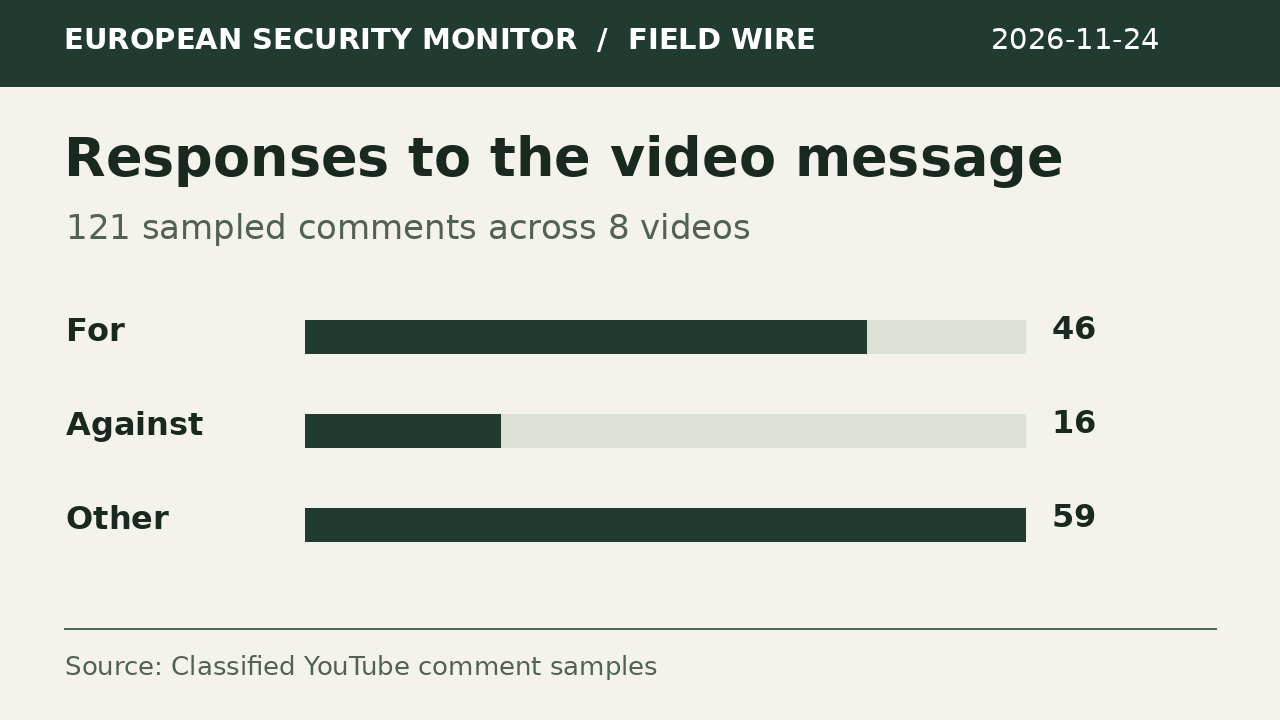
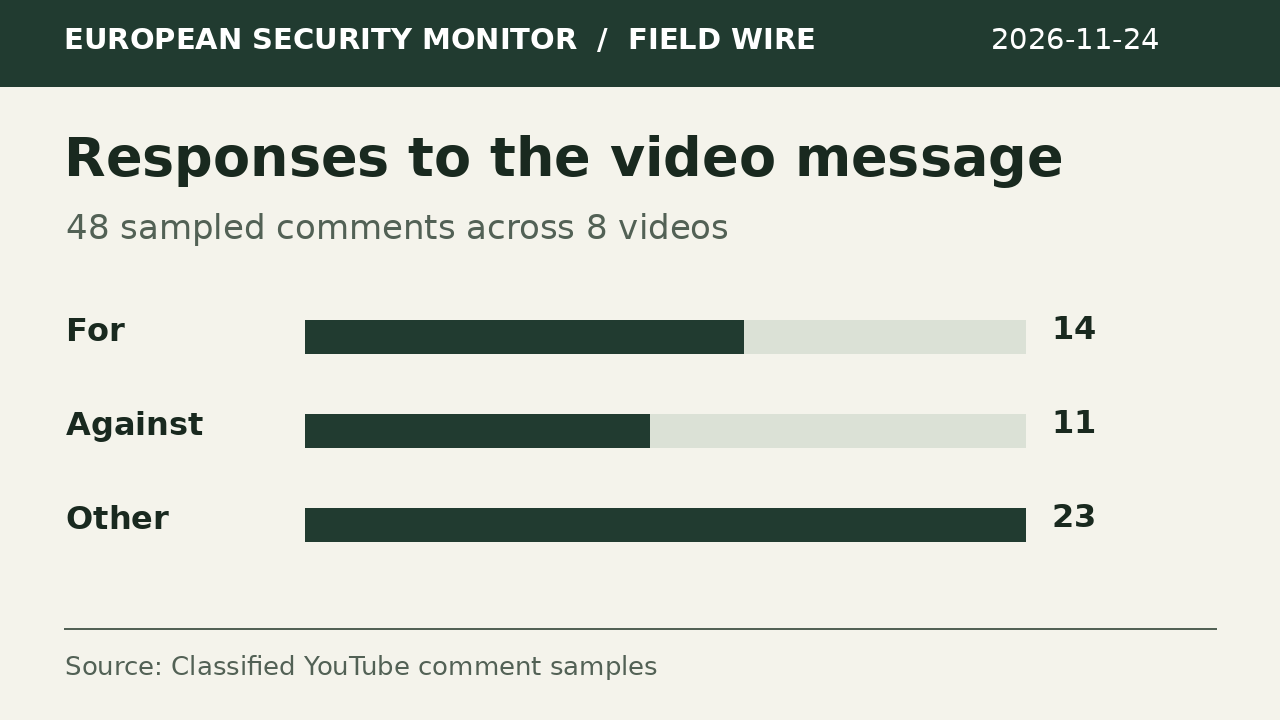
Publish Field Wire edition

diff --git a/editions/2026-11-24/index.html b/editions/2026-11-24/index.html
@@ -1,16 +1,16 @@
 <!doctype html><html lang="en"><head><meta charset="utf-8"><meta name="viewport" content="width=device-width,initial-scale=1">
-<title>Field Wire · 2026-11-24 | European Security Monitor</title><meta name="description" content="2026-11-24 · 121 sampled comments across 8 videos. For 46, Against 16, Other 59.">
+<title>Field Wire · 2026-11-24 | European Security Monitor</title><meta name="description" content="2026-11-24 · 48 sampled comments across 8 videos. For 14, Against 11, Other 23.">
 <meta name="author" content="Kedma Hamelberg"><meta name="robots" content="max-image-preview:large">
-<link rel="canonical" href="https://monitor.hamelberg-ai.com/field-wire/2026-11-24/"><meta property="og:url" content="https://monitor.hamelberg-ai.com/field-wire/2026-11-24/"><meta property="og:title" content="Field Wire · 2026-11-24 | European Security Monitor"><meta property="og:description" content="2026-11-24 · 121 sampled comments across 8 videos. For 46, Against 16, Other 59."><meta property="og:image" content="https://monitor.hamelberg-ai.com/field-wire/2026-11-24/preview.png"><meta property="og:image:width" content="1280"><meta property="og:image:height" content="720"><meta property="og:image:alt" content="Responses to the video message. 121 sampled comments across 8 videos. For 46, Against 16, Other 59."><meta name="twitter:card" content="summary_large_image"><meta name="twitter:image" content="https://monitor.hamelberg-ai.com/field-wire/2026-11-24/preview.png">
+<link rel="canonical" href="https://monitor.hamelberg-ai.com/field-wire/2026-11-24/"><meta property="og:url" content="https://monitor.hamelberg-ai.com/field-wire/2026-11-24/"><meta property="og:title" content="Field Wire · 2026-11-24 | European Security Monitor"><meta property="og:description" content="2026-11-24 · 48 sampled comments across 8 videos. For 14, Against 11, Other 23."><meta property="og:image" content="https://monitor.hamelberg-ai.com/field-wire/2026-11-24/preview.png"><meta property="og:image:width" content="1280"><meta property="og:image:height" content="720"><meta property="og:image:alt" content="Responses to the video message. 48 sampled comments across 8 videos. For 14, Against 11, Other 23."><meta name="twitter:card" content="summary_large_image"><meta name="twitter:image" content="https://monitor.hamelberg-ai.com/field-wire/2026-11-24/preview.png">
 <link rel="stylesheet" href="/field-wire/wire.css?v=edition1"><script defer src="/field-wire/wire.js?v=ledger1"></script><script defer src="/field-wire/engagement.js?v=edition1"></script><script defer src="/analytics.js"></script></head>
 <body data-edition="/field-wire/2026-11-24/"><a class="skip" href="#main">Skip to dispatches</a><header><a class="brand" href="/">⌖ ESM</a><nav aria-label="Main navigation"><a href="/#monitor">Situation room</a><a aria-current="page" href="/field-wire/">Field Wire</a><a href="/#government">Government narratives</a><a href="/#evidence">Source archive</a><a href="/#methodology">Methods</a></nav></header>
 <main id="main"><div class="mast"><div><small>European Security Monitor</small><h1>Field Wire · 2026-11-24</h1></div><div class="edition">Latest source date<br><time>2026-11-23</time></div></div>
 <nav class="jump" aria-label="Bulletin desks"><a href="#dispatches">Dispatches <b>16</b></a><a href="#audience">Audience reports <b>8</b></a><a href="/field-wire/2026-11-24/">Edition · 2026-11-24</a></nav>
 <div class="layout"><section id="dispatches"><div class="section-head"><h2>Dispatch log</h2><div id="filters" hidden><button data-filter="All" aria-pressed="true">All</button><button data-filter="Gov" aria-pressed="false">Government</button><button data-filter="Video" aria-pressed="false">YouTube</button></div></div>
-<table class="dispatches"><thead><tr><th scope="col">Filed</th><th scope="col">Dispatch</th><th scope="col">Visual</th></tr></thead><tbody><tr id="gov-ecb36cbeea8a25dc8a37" data-wire="gov-ecb36cbeea8a25dc8a37" data-desk="Gov"><td class="stamp"><time datetime="2026-11-23">23 Nov</time><b>Gov</b></td><td class="copy"><h3>Kazakhstan considers food-supply and price measures, including greenhouse electricity tariffs and controls on meat exports.</h3><small>Kazakhstan · <a class="source" href="/?record=ecb36cbeea8a25dc8a37#government">Source ↗</a></small></td><td class="visual"><figure class="activity"><b>KZ</b><div class="pulse"><i style="height:0.0%"><span>0</span></i><i style="height:75.0%"><span>3</span></i><i style="height:100.0%"><span>4</span></i><i style="height:100.0%"><span>4</span></i><i style="height:0.0%"><span>0</span></i><i style="height:0.0%"><span>0</span></i><i style="height:50.0%"><span>2</span></i></div><figcaption>Related releases · 17 Nov–23 Nov</figcaption></figure></td></tr><tr id="gov-2c7186472a32c219f7be" data-wire="gov-2c7186472a32c219f7be" data-desk="Gov"><td class="stamp"><time datetime="2026-11-23">23 Nov</time><b>Gov</b></td><td class="copy"><h3>Dutch and Lithuanian leaders will discuss European security and cooperation within the EU and NATO.</h3><small>Netherlands · <a class="source" href="/?record=2c7186472a32c219f7be#government">Source ↗</a></small></td><td class="visual"><figure class="activity"><b>NL</b><div class="pulse"><i style="height:75.0%"><span>3</span></i><i style="height:25.0%"><span>1</span></i><i style="height:100.0%"><span>4</span></i><i style="height:100.0%"><span>4</span></i><i style="height:25.0%"><span>1</span></i><i style="height:0.0%"><span>0</span></i><i style="height:75.0%"><span>3</span></i></div><figcaption>Related releases · 17 Nov–23 Nov</figcaption></figure></td></tr><tr id="gov-2fddcd75392d70899fc8" data-wire="gov-2fddcd75392d70899fc8" data-desk="Gov"><td class="stamp"><time datetime="2026-11-23">23 Nov</time><b>Gov</b></td><td class="copy"><h3>Greece consults on a national plan with 84 measures to protect journalists and press freedom.</h3><small>Greece · <a class="source" href="/?record=2fddcd75392d70899fc8#government">Source ↗</a></small></td><td class="visual"><figure class="activity"><b>GR</b><div class="pulse"><i style="height:0.0%"><span>0</span></i><i style="height:100.0%"><span>1</span></i><i style="height:0.0%"><span>0</span></i><i style="height:0.0%"><span>0</span></i><i style="height:0.0%"><span>0</span></i><i style="height:0.0%"><span>0</span></i><i style="height:100.0%"><span>1</span></i></div><figcaption>Related releases · 17 Nov–23 Nov</figcaption></figure></td></tr><tr id="gov-d262c7114f025b2acf7e" data-wire="gov-d262c7114f025b2acf7e" data-desk="Gov"><td class="stamp"><time datetime="2026-11-23">23 Nov</time><b>Gov</b></td><td class="copy"><h3>Portugal presents ocean-acidification action and maritime cooperation as part of its climate response.</h3><small>Portugal · <a class="source" href="/?record=d262c7114f025b2acf7e#government">Source ↗</a></small></td><td class="visual"><figure class="activity"><b>PT</b><div class="pulse"><i style="height:50.0%"><span>1</span></i><i style="height:50.0%"><span>1</span></i><i style="height:0.0%"><span>0</span></i><i style="height:0.0%"><span>0</span></i><i style="height:0.0%"><span>0</span></i><i style="height:50.0%"><span>1</span></i><i style="height:100.0%"><span>2</span></i></div><figcaption>Related releases · 17 Nov–23 Nov</figcaption></figure></td></tr><tr id="gov-01f0e06e67bcc15440b3" data-wire="gov-01f0e06e67bcc15440b3" data-desk="Gov"><td class="stamp"><time datetime="2026-11-23">23 Nov</time><b>Gov</b></td><td class="copy"><h3>Lukashenko urges Belarus and Russia to protect their common market and avoid duplicative production.</h3><small>Belarus · <a class="source" href="/?record=01f0e06e67bcc15440b3#government">Source ↗</a></small></td><td class="visual"><figure class="activity"><b>BY</b><div class="pulse"><i style="height:100.0%"><span>1</span></i><i style="height:0.0%"><span>0</span></i><i style="height:100.0%"><span>1</span></i><i style="height:100.0%"><span>1</span></i><i style="height:0.0%"><span>0</span></i><i style="height:0.0%"><span>0</span></i><i style="height:100.0%"><span>1</span></i></div><figcaption>Related releases · 17 Nov–23 Nov</figcaption></figure></td></tr><tr id="gov-4dab75a750df7dd45c1d" data-wire="gov-4dab75a750df7dd45c1d" data-desk="Gov"><td class="stamp"><time datetime="2026-11-23">23 Nov</time><b>Gov</b></td><td class="copy"><h3>Portugal criticizes COP31’s climate commitments while highlighting Just Transition progress and reaffirming its clean-energy transition.</h3><small>Portugal · <a class="source" href="/?record=4dab75a750df7dd45c1d#government">Source ↗</a></small></td><td class="visual"><figure class="activity"><b>PT</b><div class="pulse"><i style="height:50.0%"><span>1</span></i><i style="height:50.0%"><span>1</span></i><i style="height:0.0%"><span>0</span></i><i style="height:0.0%"><span>0</span></i><i style="height:0.0%"><span>0</span></i><i style="height:50.0%"><span>1</span></i><i style="height:100.0%"><span>2</span></i></div><figcaption>Related releases · 17 Nov–23 Nov</figcaption></figure></td></tr><tr id="gov-b96a3f8ad04484908782" data-wire="gov-b96a3f8ad04484908782" data-desk="Gov"><td class="stamp"><time datetime="2026-11-23">23 Nov</time><b>Gov</b></td><td class="copy"><h3>The Netherlands plans provincial wolf management and wolf-free zones to reduce attacks on people and livestock.</h3><small>Netherlands · <a class="source" href="/?record=b96a3f8ad04484908782#government">Source ↗</a></small></td><td class="visual"><figure class="activity"><b>NL</b><div class="pulse"><i style="height:75.0%"><span>3</span></i><i style="height:25.0%"><span>1</span></i><i style="height:100.0%"><span>4</span></i><i style="height:100.0%"><span>4</span></i><i style="height:25.0%"><span>1</span></i><i style="height:0.0%"><span>0</span></i><i style="height:75.0%"><span>3</span></i></div><figcaption>Related releases · 17 Nov–23 Nov</figcaption></figure></td></tr><tr id="gov-1a5daffe93924710991e" data-wire="gov-1a5daffe93924710991e" data-desk="Gov"><td class="stamp"><time datetime="2026-11-23">23 Nov</time><b>Gov</b></td><td class="copy"><h3>The Netherlands urges shifting electricity use outside evening peaks to ease grid congestion and enable more connections.</h3><small>Netherlands · <a class="source" href="/?record=1a5daffe93924710991e#government">Source ↗</a></small></td><td class="visual"><figure class="activity"><b>NL</b><div class="pulse"><i style="height:75.0%"><span>3</span></i><i style="height:25.0%"><span>1</span></i><i style="height:100.0%"><span>4</span></i><i style="height:100.0%"><span>4</span></i><i style="height:25.0%"><span>1</span></i><i style="height:0.0%"><span>0</span></i><i style="height:75.0%"><span>3</span></i></div><figcaption>Related releases · 17 Nov–23 Nov</figcaption></figure></td></tr><tr id="video-ehN3H5vLiCI" data-wire="video-ehN3H5vLiCI" data-desk="Video"><td class="stamp"><time datetime="2026-11-21">21 Nov</time><b>Video</b></td><td class="copy"><h3>Iceland identified as the world&#x27;s most peaceful country based on the transcript statement.</h3><small>HardCore · <a class="source" href="/?record=ehN3H5vLiCI&amp;week=2026-W47#evidence">Source ↗</a></small></td><td class="visual"><figure class="cover"><img alt="" width="320" height="180" src="https://i.ytimg.com/vi/ehN3H5vLiCI/mqdefault.jpg"></figure></td></tr><tr id="video-5SP3QCCecAQ" data-wire="video-5SP3QCCecAQ" data-desk="Video"><td class="stamp"><time datetime="2026-11-21">21 Nov</time><b>Video</b></td><td class="copy"><h3>Historical border that cut Croatia in two and persisted into modern times.</h3><small>Map Gaps Daily · <a class="source" href="/?record=5SP3QCCecAQ&amp;week=2026-W47#evidence">Source ↗</a></small></td><td class="visual"><figure class="cover"><img alt="" width="320" height="180" src="https://i.ytimg.com/vi/5SP3QCCecAQ/mqdefault.jpg"></figure></td></tr><tr id="video-Fc_3fLvpHeM" data-wire="video-Fc_3fLvpHeM" data-desk="Video"><td class="stamp"><time datetime="2026-11-21">21 Nov</time><b>Video</b></td><td class="copy"><h3>Crassus invaded Parthia with seven legions amid a desert campaign; no water and desert conditions contributed to Roman losses.</h3><small>Bob Explains  · <a class="source" href="/?record=Fc_3fLvpHeM&amp;week=2026-W47#evidence">Source ↗</a></small></td><td class="visual"><figure class="cover"><img alt="" width="320" height="180" src="https://i.ytimg.com/vi/Fc_3fLvpHeM/mqdefault.jpg"></figure></td></tr><tr id="video-55rbep7vYbc" data-wire="video-55rbep7vYbc" data-desk="Video"><td class="stamp"><time datetime="2026-11-21">21 Nov</time><b>Video</b></td><td class="copy"><h3>Opposition leader Isak Ember says Azerbaijan prevented his travel abroad, highlighting limits on exit from the country.</h3><small>BBC News Azərbaycanca · <a class="source" href="/?record=55rbep7vYbc&amp;week=2026-W47#evidence">Source ↗</a></small></td><td class="visual"><figure class="cover"><img alt="" width="320" height="180" src="https://i.ytimg.com/vi/55rbep7vYbc/mqdefault.jpg"></figure></td></tr><tr id="video-4ALbwIEyRI4" data-wire="video-4ALbwIEyRI4" data-desk="Video"><td class="stamp"><time datetime="2026-11-21">21 Nov</time><b>Video</b></td><td class="copy"><h3>The Ottoman Empire uniquely opposed recognizing Poland&#x27;s partition, contrasting with France, Britain, and Russia/Prussia.</h3><small>Ancient History Lol · <a class="source" href="/?record=4ALbwIEyRI4&amp;week=2026-W47#evidence">Source ↗</a></small></td><td class="visual"><figure class="cover"><img alt="" width="320" height="180" src="https://i.ytimg.com/vi/4ALbwIEyRI4/mqdefault.jpg"></figure></td></tr><tr id="video-A0F81rag8LU" data-wire="video-A0F81rag8LU" data-desk="Video"><td class="stamp"><time datetime="2026-11-21">21 Nov</time><b>Video</b></td><td class="copy"><h3>South Carinthia stayed with Austria in 1920; linguistic and everyday-life considerations influenced the vote.</h3><small>Terraloca · <a class="source" href="/?record=A0F81rag8LU&amp;week=2026-W47#evidence">Source ↗</a></small></td><td class="visual"><figure class="cover"><img alt="" width="320" height="180" src="https://i.ytimg.com/vi/A0F81rag8LU/mqdefault.jpg"></figure></td></tr><tr id="video-8XzyKXgVIFY" data-wire="video-8XzyKXgVIFY" data-desk="Video"><td class="stamp"><time datetime="2026-11-21">21 Nov</time><b>Video</b></td><td class="copy"><h3>Berlin Wall symbolized division; reunification marked a historic milestone.</h3><small>History With Jose · <a class="source" href="/?record=8XzyKXgVIFY&amp;week=2026-W47#evidence">Source ↗</a></small></td><td class="visual"><figure class="cover"><img alt="" width="320" height="180" src="https://i.ytimg.com/vi/8XzyKXgVIFY/mqdefault.jpg"></figure></td></tr><tr id="video-gKrisb0edcg" data-wire="video-gKrisb0edcg" data-desk="Video"><td class="stamp"><time datetime="2026-11-21">21 Nov</time><b>Video</b></td><td class="copy"><h3>One proposition: Mussolini invaded Greece to prove he could win a war.</h3><small>Recon Rundown · <a class="source" href="/?record=gKrisb0edcg&amp;week=2026-W47#evidence">Source ↗</a></small></td><td class="visual"><figure class="cover"><img alt="" width="320" height="180" src="https://i.ytimg.com/vi/gKrisb0edcg/mqdefault.jpg"></figure></td></tr></tbody></table></section>
+<table class="dispatches"><thead><tr><th scope="col">Filed</th><th scope="col">Dispatch</th><th scope="col">Visual</th></tr></thead><tbody><tr id="gov-ecb36cbeea8a25dc8a37" data-wire="gov-ecb36cbeea8a25dc8a37" data-desk="Gov"><td class="stamp"><time datetime="2026-11-23">23 Nov</time><b>Gov</b></td><td class="copy"><h3>Kazakhstan considers food-supply and price measures, including greenhouse electricity tariffs and controls on meat exports.</h3><small>Kazakhstan · <a class="source" href="/?record=ecb36cbeea8a25dc8a37#government">Source ↗</a></small></td><td class="visual"><figure class="activity"><b>KZ</b><div class="pulse"><i style="height:0.0%"><span>0</span></i><i style="height:75.0%"><span>3</span></i><i style="height:100.0%"><span>4</span></i><i style="height:100.0%"><span>4</span></i><i style="height:0.0%"><span>0</span></i><i style="height:0.0%"><span>0</span></i><i style="height:50.0%"><span>2</span></i></div><figcaption>Related releases · 17 Nov–23 Nov</figcaption></figure></td></tr><tr id="gov-2c7186472a32c219f7be" data-wire="gov-2c7186472a32c219f7be" data-desk="Gov"><td class="stamp"><time datetime="2026-11-23">23 Nov</time><b>Gov</b></td><td class="copy"><h3>Dutch and Lithuanian leaders will discuss European security and cooperation within the EU and NATO.</h3><small>Netherlands · <a class="source" href="/?record=2c7186472a32c219f7be#government">Source ↗</a></small></td><td class="visual"><figure class="activity"><b>NL</b><div class="pulse"><i style="height:75.0%"><span>3</span></i><i style="height:25.0%"><span>1</span></i><i style="height:100.0%"><span>4</span></i><i style="height:100.0%"><span>4</span></i><i style="height:25.0%"><span>1</span></i><i style="height:0.0%"><span>0</span></i><i style="height:75.0%"><span>3</span></i></div><figcaption>Related releases · 17 Nov–23 Nov</figcaption></figure></td></tr><tr id="gov-2fddcd75392d70899fc8" data-wire="gov-2fddcd75392d70899fc8" data-desk="Gov"><td class="stamp"><time datetime="2026-11-23">23 Nov</time><b>Gov</b></td><td class="copy"><h3>Greece consults on a national plan with 84 measures to protect journalists and press freedom.</h3><small>Greece · <a class="source" href="/?record=2fddcd75392d70899fc8#government">Source ↗</a></small></td><td class="visual"><figure class="activity"><b>GR</b><div class="pulse"><i style="height:0.0%"><span>0</span></i><i style="height:100.0%"><span>1</span></i><i style="height:0.0%"><span>0</span></i><i style="height:0.0%"><span>0</span></i><i style="height:0.0%"><span>0</span></i><i style="height:0.0%"><span>0</span></i><i style="height:100.0%"><span>1</span></i></div><figcaption>Related releases · 17 Nov–23 Nov</figcaption></figure></td></tr><tr id="gov-d262c7114f025b2acf7e" data-wire="gov-d262c7114f025b2acf7e" data-desk="Gov"><td class="stamp"><time datetime="2026-11-23">23 Nov</time><b>Gov</b></td><td class="copy"><h3>Portugal presents ocean-acidification action and maritime cooperation as part of its climate response.</h3><small>Portugal · <a class="source" href="/?record=d262c7114f025b2acf7e#government">Source ↗</a></small></td><td class="visual"><figure class="activity"><b>PT</b><div class="pulse"><i style="height:50.0%"><span>1</span></i><i style="height:50.0%"><span>1</span></i><i style="height:0.0%"><span>0</span></i><i style="height:0.0%"><span>0</span></i><i style="height:0.0%"><span>0</span></i><i style="height:50.0%"><span>1</span></i><i style="height:100.0%"><span>2</span></i></div><figcaption>Related releases · 17 Nov–23 Nov</figcaption></figure></td></tr><tr id="gov-01f0e06e67bcc15440b3" data-wire="gov-01f0e06e67bcc15440b3" data-desk="Gov"><td class="stamp"><time datetime="2026-11-23">23 Nov</time><b>Gov</b></td><td class="copy"><h3>Lukashenko urges Belarus and Russia to protect their common market and avoid duplicative production.</h3><small>Belarus · <a class="source" href="/?record=01f0e06e67bcc15440b3#government">Source ↗</a></small></td><td class="visual"><figure class="activity"><b>BY</b><div class="pulse"><i style="height:100.0%"><span>1</span></i><i style="height:0.0%"><span>0</span></i><i style="height:100.0%"><span>1</span></i><i style="height:100.0%"><span>1</span></i><i style="height:0.0%"><span>0</span></i><i style="height:0.0%"><span>0</span></i><i style="height:100.0%"><span>1</span></i></div><figcaption>Related releases · 17 Nov–23 Nov</figcaption></figure></td></tr><tr id="gov-4dab75a750df7dd45c1d" data-wire="gov-4dab75a750df7dd45c1d" data-desk="Gov"><td class="stamp"><time datetime="2026-11-23">23 Nov</time><b>Gov</b></td><td class="copy"><h3>Portugal criticizes COP31’s climate commitments while highlighting Just Transition progress and reaffirming its clean-energy transition.</h3><small>Portugal · <a class="source" href="/?record=4dab75a750df7dd45c1d#government">Source ↗</a></small></td><td class="visual"><figure class="activity"><b>PT</b><div class="pulse"><i style="height:50.0%"><span>1</span></i><i style="height:50.0%"><span>1</span></i><i style="height:0.0%"><span>0</span></i><i style="height:0.0%"><span>0</span></i><i style="height:0.0%"><span>0</span></i><i style="height:50.0%"><span>1</span></i><i style="height:100.0%"><span>2</span></i></div><figcaption>Related releases · 17 Nov–23 Nov</figcaption></figure></td></tr><tr id="gov-b96a3f8ad04484908782" data-wire="gov-b96a3f8ad04484908782" data-desk="Gov"><td class="stamp"><time datetime="2026-11-23">23 Nov</time><b>Gov</b></td><td class="copy"><h3>The Netherlands plans provincial wolf management and wolf-free zones to reduce attacks on people and livestock.</h3><small>Netherlands · <a class="source" href="/?record=b96a3f8ad04484908782#government">Source ↗</a></small></td><td class="visual"><figure class="activity"><b>NL</b><div class="pulse"><i style="height:75.0%"><span>3</span></i><i style="height:25.0%"><span>1</span></i><i style="height:100.0%"><span>4</span></i><i style="height:100.0%"><span>4</span></i><i style="height:25.0%"><span>1</span></i><i style="height:0.0%"><span>0</span></i><i style="height:75.0%"><span>3</span></i></div><figcaption>Related releases · 17 Nov–23 Nov</figcaption></figure></td></tr><tr id="gov-1a5daffe93924710991e" data-wire="gov-1a5daffe93924710991e" data-desk="Gov"><td class="stamp"><time datetime="2026-11-23">23 Nov</time><b>Gov</b></td><td class="copy"><h3>The Netherlands urges shifting electricity use outside evening peaks to ease grid congestion and enable more connections.</h3><small>Netherlands · <a class="source" href="/?record=1a5daffe93924710991e#government">Source ↗</a></small></td><td class="visual"><figure class="activity"><b>NL</b><div class="pulse"><i style="height:75.0%"><span>3</span></i><i style="height:25.0%"><span>1</span></i><i style="height:100.0%"><span>4</span></i><i style="height:100.0%"><span>4</span></i><i style="height:25.0%"><span>1</span></i><i style="height:0.0%"><span>0</span></i><i style="height:75.0%"><span>3</span></i></div><figcaption>Related releases · 17 Nov–23 Nov</figcaption></figure></td></tr><tr id="video-ehN3H5vLiCI" data-wire="video-ehN3H5vLiCI" data-desk="Video"><td class="stamp"><time datetime="2026-11-21">21 Nov</time><b>Video</b></td><td class="copy"><h3>Iceland identified as the world&#x27;s most peaceful country based on the transcript statement.</h3><small>HardCore · <a class="source" href="/?record=ehN3H5vLiCI&amp;week=2026-W47#evidence">Source ↗</a></small></td><td class="visual"><figure class="cover"><img alt="" width="320" height="180" src="https://i.ytimg.com/vi/ehN3H5vLiCI/mqdefault.jpg"></figure></td></tr><tr id="video-5SP3QCCecAQ" data-wire="video-5SP3QCCecAQ" data-desk="Video"><td class="stamp"><time datetime="2026-11-21">21 Nov</time><b>Video</b></td><td class="copy"><h3>Historical border that cut Croatia in two and persisted into modern times.</h3><small>Map Gaps Daily · <a class="source" href="/?record=5SP3QCCecAQ&amp;week=2026-W47#evidence">Source ↗</a></small></td><td class="visual"><figure class="cover"><img alt="" width="320" height="180" src="https://i.ytimg.com/vi/5SP3QCCecAQ/mqdefault.jpg"></figure></td></tr><tr id="video-oYZvGndbGpk" data-wire="video-oYZvGndbGpk" data-desk="Video"><td class="stamp"><time datetime="2026-11-21">21 Nov</time><b>Video</b></td><td class="copy"><h3>Video argues Stalin attempted to annex Finland, later suggesting it stopped for strategic/com defensive reasons.</h3><small>Map Motives · <a class="source" href="/?record=oYZvGndbGpk&amp;week=2026-W47#evidence">Source ↗</a></small></td><td class="visual"><figure class="cover"><img alt="" width="320" height="180" src="https://i.ytimg.com/vi/oYZvGndbGpk/mqdefault.jpg"></figure></td></tr><tr id="video-Hzg-J9OSqJY" data-wire="video-Hzg-J9OSqJY" data-desk="Video"><td class="stamp"><time datetime="2026-11-21">21 Nov</time><b>Video</b></td><td class="copy"><h3>Saint Martin&#x27;s status as a country within the Kingdom of the Netherlands and its cross-border reality.</h3><small>GeoPlot Twist · <a class="source" href="/?record=Hzg-J9OSqJY&amp;week=2026-W47#evidence">Source ↗</a></small></td><td class="visual"><figure class="cover"><img alt="" width="320" height="180" src="https://i.ytimg.com/vi/Hzg-J9OSqJY/mqdefault.jpg"></figure></td></tr><tr id="video-pkivCXQc1RA" data-wire="video-pkivCXQc1RA" data-desk="Video"><td class="stamp"><time datetime="2026-11-21">21 Nov</time><b>Video</b></td><td class="copy"><h3>Russia expanded its empire by taking advantage of China’s weakness in the 19th century.</h3><small>BattleMap  · <a class="source" href="/?record=pkivCXQc1RA&amp;week=2026-W47#evidence">Source ↗</a></small></td><td class="visual"><figure class="cover"><img alt="" width="320" height="180" src="https://i.ytimg.com/vi/pkivCXQc1RA/mqdefault.jpg"></figure></td></tr><tr id="video-ndAl-NtkYEQ" data-wire="video-ndAl-NtkYEQ" data-desk="Video"><td class="stamp"><time datetime="2026-11-21">21 Nov</time><b>Video</b></td><td class="copy"><h3>Baltic maritime-security concerns near Finland due to ship attack in Gulf of Finland</h3><small>Valkyrie338 · <a class="source" href="/?record=ndAl-NtkYEQ&amp;week=2026-W47#evidence">Source ↗</a></small></td><td class="visual"><figure class="cover"><img alt="" width="320" height="180" src="https://i.ytimg.com/vi/ndAl-NtkYEQ/mqdefault.jpg"></figure></td></tr><tr id="video-PRTKYFOXmW4" data-wire="video-PRTKYFOXmW4" data-desk="Video"><td class="stamp"><time datetime="2026-11-21">21 Nov</time><b>Video</b></td><td class="copy"><h3>Court poised to decide on banning federation officials after indictment.</h3><small>N1 BiH · <a class="source" href="/?record=PRTKYFOXmW4&amp;week=2026-W47#evidence">Source ↗</a></small></td><td class="visual"><figure class="cover"><img alt="" width="320" height="180" src="https://i.ytimg.com/vi/PRTKYFOXmW4/mqdefault.jpg"></figure></td></tr><tr id="video-laCLnC6h_Xg" data-wire="video-laCLnC6h_Xg" data-desk="Video"><td class="stamp"><time datetime="2026-11-21">21 Nov</time><b>Video</b></td><td class="copy"><h3>The president who lost his country was Antanas Smetona.</h3><small>Showman 🎬 · <a class="source" href="/?record=laCLnC6h_Xg&amp;week=2026-W47#evidence">Source ↗</a></small></td><td class="visual"><figure class="cover"><img alt="" width="320" height="180" src="https://i.ytimg.com/vi/laCLnC6h_Xg/mqdefault.jpg"></figure></td></tr></tbody></table></section>
 <div class="rail"><section id="audience"><div class="section-head"><h2>Audience reports</h2></div><p class="table-note">Latest classified sample for each video. For and Against count responses to its message. Other includes mixed, unclear, unrelated and no position.</p>
-<table class="reports"><thead><tr><th scope="col">Viewer response / video</th><th scope="col">Total</th><th scope="col">For</th><th scope="col">Against</th><th scope="col">Other</th></tr></thead><tbody><tr id="comments-2026-W47-ehN3H5vLiCI" data-wire="comments-2026-W47-ehN3H5vLiCI"><td class="copy"><h3>4 of 4 opposed the message.</h3><p class="video-context">Video: Iceland identified as the world&#x27;s most peaceful country based on the transcript statement.</p><a class="source" href="/?record=ehN3H5vLiCI&amp;week=2026-W47#evidence">Source ↗</a><small>HardCore · 2026-W47</small></td><td class="num">4</td><td class="num positive">0</td><td class="num negative">4</td><td class="num" title="opposes 4">0</td></tr><tr id="comments-2026-W47-4ALbwIEyRI4" data-wire="comments-2026-W47-4ALbwIEyRI4"><td class="copy"><h3>5 of 8 backed the message.</h3><p class="video-context">Video: The Ottoman Empire uniquely opposed recognizing Poland&#x27;s partition, contrasting with France, Britain, and Russia/Prussia.</p><a class="source" href="/?record=4ALbwIEyRI4&amp;week=2026-W47#evidence">Source ↗</a><small>Ancient History Lol · 2026-W47</small></td><td class="num">8</td><td class="num positive">5</td><td class="num negative">1</td><td class="num" title="opposes 1, supports 5, unrelated 2">2</td></tr><tr id="comments-2026-W47-A0F81rag8LU" data-wire="comments-2026-W47-A0F81rag8LU"><td class="copy"><h3>6 of 11 had unclear alignment.</h3><p class="video-context">Video: South Carinthia stayed with Austria in 1920; linguistic and everyday-life considerations influenced the vote.</p><a class="source" href="/?record=A0F81rag8LU&amp;week=2026-W47#evidence">Source ↗</a><small>Terraloca · 2026-W47</small></td><td class="num">11</td><td class="num positive">3</td><td class="num negative">1</td><td class="num" title="opposes 1, supports 3, unclear 6, unrelated 1">7</td></tr><tr id="comments-2026-W47-BU54bINuZE0" data-wire="comments-2026-W47-BU54bINuZE0"><td class="copy"><h3>12 of 30 had unclear alignment.</h3><p class="video-context">Video: Explains NATO Article 5&#x27;s conditional nature and references provocation framing by Poland&#x27;s leader.</p><a class="source" href="/?record=BU54bINuZE0&amp;week=2026-W47#evidence">Source ↗</a><small>Epochs in Ink · 2026-W47</small></td><td class="num">30</td><td class="num positive">4</td><td class="num negative">3</td><td class="num" title="no position 10, opposes 3, supports 4, unclear 12, unrelated 1">23</td></tr><tr id="comments-2026-W47-1y5_cS93beM" data-wire="comments-2026-W47-1y5_cS93beM"><td class="copy"><h3>5 of 9 backed the message.</h3><p class="video-context">Video: Historical narration of Portugal’s 1543 contact with Japan, including initial Portuguese presence and trade.</p><a class="source" href="/?record=1y5_cS93beM&amp;week=2026-W47#evidence">Source ↗</a><small>itsaihistory · 2026-W47</small></td><td class="num">9</td><td class="num positive">5</td><td class="num negative">1</td><td class="num" title="mixed 2, opposes 1, supports 5, unrelated 1">3</td></tr><tr id="comments-2026-W47-E4nNKuiNatE" data-wire="comments-2026-W47-E4nNKuiNatE"><td class="copy"><h3>14 of 24 backed the message.</h3><p class="video-context">Video: NATO expansion transformed the Baltic Sea into a security-focused theater, narrowing Russian naval options and integrating Gotland and Baltic states into a more interlinked defense posture.</p><a class="source" href="/?record=E4nNKuiNatE&amp;week=2026-W47#evidence">Source ↗</a><small>Map Pack · 2026-W47</small></td><td class="num">24</td><td class="num positive">14</td><td class="num negative">2</td><td class="num" title="opposes 2, supports 14, unclear 5, unrelated 3">8</td></tr><tr id="comments-2026-W47-b7fi8FDKCN8" data-wire="comments-2026-W47-b7fi8FDKCN8"><td class="copy"><h3>14 of 30 backed the message.</h3><p class="video-context">Video: This agreement is about the long term.</p><a class="source" href="/?record=b7fi8FDKCN8&amp;week=2026-W47#evidence">Source ↗</a><small>METRO TV  · 2026-W47</small></td><td class="num">30</td><td class="num positive">14</td><td class="num negative">2</td><td class="num" title="no position 2, opposes 2, supports 14, unrelated 12">14</td></tr><tr id="comments-2026-W47-70agyHQTT44" data-wire="comments-2026-W47-70agyHQTT44"><td class="copy"><h3>2 of 5 opposed the message.</h3><p class="video-context">Video: India and Bulgaria discuss a formal roadmap to deepen bilateral cooperation across trade, defence, AI, space and digital infrastructure.</p><a class="source" href="/?record=70agyHQTT44&amp;week=2026-W47#evidence">Source ↗</a><small>ET Digital · 2026-W47</small></td><td class="num">5</td><td class="num positive">1</td><td class="num negative">2</td><td class="num" title="opposes 2, supports 1, unclear 1, unrelated 1">2</td></tr></tbody></table></section>
-<figure class="edition-chart"><a href="https://monitor.hamelberg-ai.com/field-wire/2026-11-24/preview.png"><img src="https://monitor.hamelberg-ai.com/field-wire/2026-11-24/preview.png" width="1280" height="720" loading="lazy" alt="Responses to the video message. 121 sampled comments across 8 videos. For 46, Against 16, Other 59."></a><figcaption><b>Responses to the video message</b> 121 sampled comments across 8 videos. For 46, Against 16, Other 59. <a href="/field-wire/2026-11-24/#audience">Classified YouTube comment samples</a></figcaption></figure><aside class="ad-reserve" aria-label="Reserved advertisement space"><span>Advertisements</span></aside></div></div></main>
+<table class="reports"><thead><tr><th scope="col">Viewer response / video</th><th scope="col">Total</th><th scope="col">For</th><th scope="col">Against</th><th scope="col">Other</th></tr></thead><tbody><tr id="comments-2026-W47-ehN3H5vLiCI" data-wire="comments-2026-W47-ehN3H5vLiCI"><td class="copy"><h3>4 of 4 opposed the message.</h3><p class="video-context">Video: Iceland identified as the world&#x27;s most peaceful country based on the transcript statement.</p><a class="source" href="/?record=ehN3H5vLiCI&amp;week=2026-W47#evidence">Source ↗</a><small>HardCore · 2026-W47</small></td><td class="num">4</td><td class="num positive">0</td><td class="num negative">4</td><td class="num" title="opposes 4">0</td></tr><tr id="comments-2026-W47-pkivCXQc1RA" data-wire="comments-2026-W47-pkivCXQc1RA"><td class="copy"><h3>2 of 5 expressed mixed views.</h3><p class="video-context">Video: Russia expanded its empire by taking advantage of China’s weakness in the 19th century.</p><a class="source" href="/?record=pkivCXQc1RA&amp;week=2026-W47#evidence">Source ↗</a><small>BattleMap  · 2026-W47</small></td><td class="num">5</td><td class="num positive">1</td><td class="num negative">1</td><td class="num" title="mixed 2, opposes 1, supports 1, unrelated 1">3</td></tr><tr id="comments-2026-W47-ndAl-NtkYEQ" data-wire="comments-2026-W47-ndAl-NtkYEQ"><td class="copy"><h3>2 of 2 took no position.</h3><p class="video-context">Video: Baltic maritime-security concerns near Finland due to ship attack in Gulf of Finland</p><a class="source" href="/?record=ndAl-NtkYEQ&amp;week=2026-W47#evidence">Source ↗</a><small>Valkyrie338 · 2026-W47</small></td><td class="num">2</td><td class="num positive">0</td><td class="num negative">0</td><td class="num" title="no position 2">2</td></tr><tr id="comments-2026-W47-MhW4u6pVPmY" data-wire="comments-2026-W47-MhW4u6pVPmY"><td class="copy"><h3>3 backed the message and 1 opposed it (10 sampled).</h3><p class="video-context">Video: There should be no change of government in Armenia.</p><a class="source" href="/?record=MhW4u6pVPmY&amp;week=2026-W47#evidence">Source ↗</a><small>Life Armenia  · 2026-W47</small></td><td class="num">10</td><td class="num positive">3</td><td class="num negative">1</td><td class="num" title="opposes 1, supports 3, unclear 3, unrelated 3">6</td></tr><tr id="comments-2026-W47-4ALbwIEyRI4" data-wire="comments-2026-W47-4ALbwIEyRI4"><td class="copy"><h3>5 of 8 backed the message.</h3><p class="video-context">Video: The Ottoman Empire uniquely opposed recognizing Poland&#x27;s partition, contrasting with France, Britain, and Russia/Prussia.</p><a class="source" href="/?record=4ALbwIEyRI4&amp;week=2026-W47#evidence">Source ↗</a><small>Ancient History Lol · 2026-W47</small></td><td class="num">8</td><td class="num positive">5</td><td class="num negative">1</td><td class="num" title="opposes 1, supports 5, unrelated 2">2</td></tr><tr id="comments-2026-W47-NZvAkDg8m1c" data-wire="comments-2026-W47-NZvAkDg8m1c"><td class="copy"><h3>2 of 2 took no position.</h3><p class="video-context">Video: Video suggests erasing Switzerland as a hypothetical action.</p><a class="source" href="/?record=NZvAkDg8m1c&amp;week=2026-W47#evidence">Source ↗</a><small>World Without ? · 2026-W47</small></td><td class="num">2</td><td class="num positive">0</td><td class="num negative">0</td><td class="num" title="no position 2">2</td></tr><tr id="comments-2026-W47-A0F81rag8LU" data-wire="comments-2026-W47-A0F81rag8LU"><td class="copy"><h3>6 of 11 had unclear alignment.</h3><p class="video-context">Video: South Carinthia stayed with Austria in 1920; linguistic and everyday-life considerations influenced the vote.</p><a class="source" href="/?record=A0F81rag8LU&amp;week=2026-W47#evidence">Source ↗</a><small>Terraloca · 2026-W47</small></td><td class="num">11</td><td class="num positive">3</td><td class="num negative">1</td><td class="num" title="opposes 1, supports 3, unclear 6, unrelated 1">7</td></tr><tr id="comments-2026-W47-PWY1W7uT6nY" data-wire="comments-2026-W47-PWY1W7uT6nY"><td class="copy"><h3>3 of 6 opposed the message.</h3><p class="video-context">Video: Poland faces doubts about affording and maintaining a large-scale arms build-up.</p><a class="source" href="/?record=PWY1W7uT6nY&amp;week=2026-W47#evidence">Source ↗</a><small>Nasi - Damian Piecha · 2026-W47</small></td><td class="num">6</td><td class="num positive">2</td><td class="num negative">3</td><td class="num" title="opposes 3, supports 2, unrelated 1">1</td></tr></tbody></table></section>
+<figure class="edition-chart"><a href="https://monitor.hamelberg-ai.com/field-wire/2026-11-24/preview.png"><img src="https://monitor.hamelberg-ai.com/field-wire/2026-11-24/preview.png" width="1280" height="720" loading="lazy" alt="Responses to the video message. 48 sampled comments across 8 videos. For 14, Against 11, Other 23."></a><figcaption><b>Responses to the video message</b> 48 sampled comments across 8 videos. For 14, Against 11, Other 23. <a href="/field-wire/2026-11-24/#audience">Classified YouTube comment samples</a></figcaption></figure><aside class="ad-reserve" aria-label="Reserved advertisement space"><span>Advertisements</span></aside></div></div><section><h2>Earlier filings</h2><table><thead><tr><th scope="col">Report</th><th scope="col">Total</th><th scope="col">For</th><th scope="col">Against</th><th scope="col">Other</th></tr></thead><tbody><tr id="comments-2026-W47-1y5_cS93beM" data-wire="comments-2026-W47-1y5_cS93beM"><td class="copy"><h3>5 of 9 backed the message.</h3><p class="video-context">Video: Historical narration of Portugal’s 1543 contact with Japan, including initial Portuguese presence and trade.</p><a class="source" href="/?record=1y5_cS93beM&amp;week=2026-W47#evidence">Source ↗</a><small>itsaihistory · 2026-W47</small></td><td class="num">9</td><td class="num positive">5</td><td class="num negative">1</td><td class="num" title="mixed 2, opposes 1, supports 5, unrelated 1">3</td></tr></tbody></table><table><thead><tr><th scope="col">Report</th><th scope="col">Total</th><th scope="col">For</th><th scope="col">Against</th><th scope="col">Other</th></tr></thead><tbody><tr id="comments-2026-W47-70agyHQTT44" data-wire="comments-2026-W47-70agyHQTT44"><td class="copy"><h3>2 of 5 opposed the message.</h3><p class="video-context">Video: India and Bulgaria discuss a formal roadmap to deepen bilateral cooperation across trade, defence, AI, space and digital infrastructure.</p><a class="source" href="/?record=70agyHQTT44&amp;week=2026-W47#evidence">Source ↗</a><small>ET Digital · 2026-W47</small></td><td class="num">5</td><td class="num positive">1</td><td class="num negative">2</td><td class="num" title="opposes 2, supports 1, unclear 1, unrelated 1">2</td></tr></tbody></table><table><thead><tr><th scope="col">Report</th><th scope="col">Total</th><th scope="col">For</th><th scope="col">Against</th><th scope="col">Other</th></tr></thead><tbody><tr id="comments-2026-W47-BU54bINuZE0" data-wire="comments-2026-W47-BU54bINuZE0"><td class="copy"><h3>12 of 30 had unclear alignment.</h3><p class="video-context">Video: Explains NATO Article 5&#x27;s conditional nature and references provocation framing by Poland&#x27;s leader.</p><a class="source" href="/?record=BU54bINuZE0&amp;week=2026-W47#evidence">Source ↗</a><small>Epochs in Ink · 2026-W47</small></td><td class="num">30</td><td class="num positive">4</td><td class="num negative">3</td><td class="num" title="no position 10, opposes 3, supports 4, unclear 12, unrelated 1">23</td></tr></tbody></table><table><thead><tr><th scope="col">Report</th><th scope="col">Total</th><th scope="col">For</th><th scope="col">Against</th><th scope="col">Other</th></tr></thead><tbody><tr id="comments-2026-W47-E4nNKuiNatE" data-wire="comments-2026-W47-E4nNKuiNatE"><td class="copy"><h3>14 of 24 backed the message.</h3><p class="video-context">Video: NATO expansion transformed the Baltic Sea into a security-focused theater, narrowing Russian naval options and integrating Gotland and Baltic states into a more interlinked defense posture.</p><a class="source" href="/?record=E4nNKuiNatE&amp;week=2026-W47#evidence">Source ↗</a><small>Map Pack · 2026-W47</small></td><td class="num">24</td><td class="num positive">14</td><td class="num negative">2</td><td class="num" title="opposes 2, supports 14, unclear 5, unrelated 3">8</td></tr></tbody></table><table><thead><tr><th scope="col">Report</th><th scope="col">Total</th><th scope="col">For</th><th scope="col">Against</th><th scope="col">Other</th></tr></thead><tbody><tr id="comments-2026-W47-b7fi8FDKCN8" data-wire="comments-2026-W47-b7fi8FDKCN8"><td class="copy"><h3>14 of 30 backed the message.</h3><p class="video-context">Video: This agreement is about the long term.</p><a class="source" href="/?record=b7fi8FDKCN8&amp;week=2026-W47#evidence">Source ↗</a><small>METRO TV  · 2026-W47</small></td><td class="num">30</td><td class="num positive">14</td><td class="num negative">2</td><td class="num" title="no position 2, opposes 2, supports 14, unrelated 12">14</td></tr></tbody></table><table><thead><tr><th scope="col">Filed</th><th scope="col">Dispatch</th><th scope="col">Visual</th></tr></thead><tbody><tr id="video-4ALbwIEyRI4" data-wire="video-4ALbwIEyRI4" data-desk="Video"><td class="stamp"><time datetime="2026-11-21">21 Nov</time><b>Video</b></td><td class="copy"><h3>The Ottoman Empire uniquely opposed recognizing Poland&#x27;s partition, contrasting with France, Britain, and Russia/Prussia.</h3><small>Ancient History Lol · <a class="source" href="/?record=4ALbwIEyRI4&amp;week=2026-W47#evidence">Source ↗</a></small></td><td class="visual"><figure class="cover"><img alt="" width="320" height="180" src="https://i.ytimg.com/vi/4ALbwIEyRI4/mqdefault.jpg"></figure></td></tr></tbody></table><table><thead><tr><th scope="col">Filed</th><th scope="col">Dispatch</th><th scope="col">Visual</th></tr></thead><tbody><tr id="video-55rbep7vYbc" data-wire="video-55rbep7vYbc" data-desk="Video"><td class="stamp"><time datetime="2026-11-21">21 Nov</time><b>Video</b></td><td class="copy"><h3>Opposition leader Isak Ember says Azerbaijan prevented his travel abroad, highlighting limits on exit from the country.</h3><small>BBC News Azərbaycanca · <a class="source" href="/?record=55rbep7vYbc&amp;week=2026-W47#evidence">Source ↗</a></small></td><td class="visual"><figure class="cover"><img alt="" width="320" height="180" src="https://i.ytimg.com/vi/55rbep7vYbc/mqdefault.jpg"></figure></td></tr></tbody></table><table><thead><tr><th scope="col">Filed</th><th scope="col">Dispatch</th><th scope="col">Visual</th></tr></thead><tbody><tr id="video-8XzyKXgVIFY" data-wire="video-8XzyKXgVIFY" data-desk="Video"><td class="stamp"><time datetime="2026-11-21">21 Nov</time><b>Video</b></td><td class="copy"><h3>Berlin Wall symbolized division; reunification marked a historic milestone.</h3><small>History With Jose · <a class="source" href="/?record=8XzyKXgVIFY&amp;week=2026-W47#evidence">Source ↗</a></small></td><td class="visual"><figure class="cover"><img alt="" width="320" height="180" src="https://i.ytimg.com/vi/8XzyKXgVIFY/mqdefault.jpg"></figure></td></tr></tbody></table><table><thead><tr><th scope="col">Filed</th><th scope="col">Dispatch</th><th scope="col">Visual</th></tr></thead><tbody><tr id="video-A0F81rag8LU" data-wire="video-A0F81rag8LU" data-desk="Video"><td class="stamp"><time datetime="2026-11-21">21 Nov</time><b>Video</b></td><td class="copy"><h3>South Carinthia stayed with Austria in 1920; linguistic and everyday-life considerations influenced the vote.</h3><small>Terraloca · <a class="source" href="/?record=A0F81rag8LU&amp;week=2026-W47#evidence">Source ↗</a></small></td><td class="visual"><figure class="cover"><img alt="" width="320" height="180" src="https://i.ytimg.com/vi/A0F81rag8LU/mqdefault.jpg"></figure></td></tr></tbody></table><table><thead><tr><th scope="col">Filed</th><th scope="col">Dispatch</th><th scope="col">Visual</th></tr></thead><tbody><tr id="video-Fc_3fLvpHeM" data-wire="video-Fc_3fLvpHeM" data-desk="Video"><td class="stamp"><time datetime="2026-11-21">21 Nov</time><b>Video</b></td><td class="copy"><h3>Crassus invaded Parthia with seven legions amid a desert campaign; no water and desert conditions contributed to Roman losses.</h3><small>Bob Explains  · <a class="source" href="/?record=Fc_3fLvpHeM&amp;week=2026-W47#evidence">Source ↗</a></small></td><td class="visual"><figure class="cover"><img alt="" width="320" height="180" src="https://i.ytimg.com/vi/Fc_3fLvpHeM/mqdefault.jpg"></figure></td></tr></tbody></table><table><thead><tr><th scope="col">Filed</th><th scope="col">Dispatch</th><th scope="col">Visual</th></tr></thead><tbody><tr id="video-gKrisb0edcg" data-wire="video-gKrisb0edcg" data-desk="Video"><td class="stamp"><time datetime="2026-11-21">21 Nov</time><b>Video</b></td><td class="copy"><h3>One proposition: Mussolini invaded Greece to prove he could win a war.</h3><small>Recon Rundown · <a class="source" href="/?record=gKrisb0edcg&amp;week=2026-W47#evidence">Source ↗</a></small></td><td class="visual"><figure class="cover"><img alt="" width="320" height="180" src="https://i.ytimg.com/vi/gKrisb0edcg/mqdefault.jpg"></figure></td></tr></tbody></table></section></main>
 <dialog id="share-dispatch" aria-labelledby="share-title">
 <form method="dialog"><h2 id="share-title">Share dispatch</h2><button aria-label="Close share options" autofocus>Close</button></form>
 <p class="share-lead"></p><div class="share-choices"></div><span class="share-status" role="status"></span>
